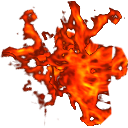
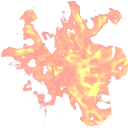
amélioration particules lance flammes

diff --git a/src/engine/texture.cpp b/src/engine/texture.cpp
@@ -175,12 +175,12 @@ static inline void reorienttexture(uchar * RESTRICT src, int sw, int sh, int str
 }
 
 static void reorienttexture(uchar * RESTRICT src, int sw, int sh, int bpp, int stride, uchar * RESTRICT dst, bool flipx, bool flipy, bool swapxy)
-{   
+{
     switch(bpp)
     {
         case 1: return reorienttexture<1>(src, sw, sh, stride, dst, flipx, flipy, swapxy);
         case 2: return reorienttexture<2>(src, sw, sh, stride, dst, flipx, flipy, swapxy);
-        case 3: return reorienttexture<3>(src, sw, sh, stride, dst, flipx, flipy, swapxy); 
+        case 3: return reorienttexture<3>(src, sw, sh, stride, dst, flipx, flipy, swapxy);
         case 4: return reorienttexture<4>(src, sw, sh, stride, dst, flipx, flipy, swapxy);
     }
 }
@@ -658,7 +658,7 @@ void texblend(ImageData &d, ImageData &s, ImageData &m)
             dst[0] = uchar((dst[0]*dstblend + src[0]*srcblend)/255);
             dst[1] = uchar((dst[1]*dstblend + src[1]*srcblend)/255);
             dst[2] = uchar((dst[2]*dstblend + src[2]*srcblend)/255);
-        ); 
+        );
     }
     else
     {
@@ -672,13 +672,13 @@ void texblend(ImageData &d, ImageData &s, ImageData &m)
             int dstblend = 255 - srcblend;
             dst[0] = uchar((dst[0]*dstblend + src[0]*srcblend)/255);
         );
-        else read2writetex(d, s, src, m, mask, 
+        else read2writetex(d, s, src, m, mask,
             int srcblend = mask[0];
             int dstblend = 255 - srcblend;
             dst[0] = uchar((dst[0]*dstblend + src[0]*srcblend)/255);
             dst[1] = uchar((dst[1]*dstblend + src[1]*srcblend)/255);
             dst[2] = uchar((dst[2]*dstblend + src[2]*srcblend)/255);
-        ); 
+        );
     }
 }
 
@@ -1527,7 +1527,7 @@ SDL_Surface *loadsurface(const char *name)
         if(rw)
         {
             const char *ext = strrchr(name, '.');
-            if(ext) ++ext; 
+            if(ext) ++ext;
             s = IMG_LoadTyped_RW(rw, 0, ext);
             SDL_FreeRW(rw);
         }
@@ -2246,13 +2246,13 @@ bool unpackvslot(ucharbuf &buf, VSlot &dst, bool delta)
             }
             default:
                 return false;
-        } 
+        }
         dst.changed |= 1<<changed;
     }
     if(buf.overread()) return false;
-    return true; 
+    return true;
 }
- 
+
 VSlot *findvslot(Slot &slot, const VSlot &src, const VSlot &delta)
 {
     for(VSlot *dst = slot.variants; dst; dst = dst->next)
@@ -2359,7 +2359,7 @@ void texture(char *type, char *name, int *rot, int *xoffset, int *yoffset, float
     {
         tnum = TEX_DIFFUSE;
         defslot = &materialslots[matslot];
-        defslot->reset(); 
+        defslot->reset();
     }
     else if(!defslot) return;
     else if(tnum < 0) tnum = TEX_UNKNOWN;

diff --git a/src/game/weapon.cpp b/src/game/weapon.cpp
@@ -1242,11 +1242,11 @@ namespace game
                     irays.sub(d->muzzle);
                     irays.normalize().mul(1550.0f);
 
-                    switch(rnd(6))
+                    switch(rnd(5))
                     {
-                        case 0: particle_flying_flare(d->muzzle, irays, 700, PART_FLAME1+rnd(2), d->steromillis ? 0xAA0000 :  0x883322, 1.5f, 100, 1, player1->champimillis ? true : false); flamehit(from, rays[i]); break;
-                        case 1: particle_flying_flare(d->muzzle, irays, 700, PART_FLAME1+rnd(2), d->steromillis ? 0x990000 :  0x992211, 1.5f, 100, 1, player1->champimillis ? true : false); flamehit(from, rays[i]); break;
-                        case 2: particle_flying_flare(d->muzzle, irays, 700, PART_FLAME1+rnd(2), d->steromillis ? 0xBB0000 :  0x773300, 1.5f, 100, 1, player1->champimillis ? true : false); flamehit(from, rays[i]); break;
+                        case 0: particle_flying_flare(d->muzzle, irays, 700, PART_FLAME1+rnd(2), d->steromillis ? 0x881111 :  0x604930, (7.f+rnd(16))/10.f, 100, 1, player1->champimillis ? true : false); flamehit(from, rays[i]); break;
+                        case 1: particle_flying_flare(d->muzzle, irays, 700, PART_FLAME1+rnd(2), d->steromillis ? 0x770000 :  0x474747, (7.f+rnd(16))/10.f, 100, 1, player1->champimillis ? true : false); flamehit(from, rays[i]); break;
+                        case 2: particle_flying_flare(d->muzzle, irays, 700, PART_FLAME1+rnd(2), d->steromillis ? 0x991111 :  0x383838, (7.f+rnd(16))/10.f, 100, 1, player1->champimillis ? true : false); flamehit(from, rays[i]); break;
                         default:
                             particle_flying_flare(d->muzzle, irays, 1100, PART_SMOKE, 0x111111, 5.0f, -20, 1, player1->champimillis ? true : false);
                             adddynlight(hudgunorigin(gun, d->o, irays, d), 50, vec(0.40f, 0.2f, 0.1f), 100, 100, L_NODYNSHADOW, 10, vec(0.50f, 0, 0), d);

diff --git a/src/engine/renderparticles.cpp b/src/engine/renderparticles.cpp
@@ -5,7 +5,7 @@
 Shader *particleshader = NULL, *particlenotextureshader = NULL, *particlesoftshader = NULL, *particletextshader = NULL;
 
 VARP(particlelayers, 0, 1, 1);
-FVARP(particlebright, 0, 2, 100);
+FVARP(particlebright, 0, 1.75, 100);
 VARP(particlesize, 20, 100, 500);
 
 VARP(softparticles, 0, 1, 1);
@@ -869,11 +869,11 @@ static partrenderer *parts[] =
     new trailrenderer("media/particle/impact.png", PT_TRAIL|PT_BRIGHT),                          // streak
     new quadrenderer("media/particle/spock_front.png", PT_PART|PT_FEW|PT_BRIGHT),
     new quadrenderer("media/particle/sante.png", PT_PART|PT_BRIGHT),
-    new quadrenderer("media/particle/flames_1.png", PT_PART|PT_FLIP|PT_BRIGHT),
-    new quadrenderer("media/particle/flames_2.png", PT_PART|PT_FLIP|PT_BRIGHT),
+    new quadrenderer("media/particle/flames_1.png", PT_PART|PT_FLIP|PT_BRIGHT|PT_COLLIDE, -1),
+    new quadrenderer("media/particle/flames_2.png", PT_PART|PT_FLIP|PT_BRIGHT|PT_COLLIDE, -1),
     new quadrenderer("media/particle/eau.png", PT_PART|PT_FLIP|PT_BRIGHT),
     new quadrenderer("media/particle/neige.png", PT_PART|PT_FLIP|PT_RND4|PT_COLLIDE, -1),            // colliding snow
-    new trailrenderer("media/particle/pluie.png", PT_TRAIL|PT_LERP|PT_COLLIDE),
+    new trailrenderer("media/particle/pluie.png", PT_TRAIL|PT_LERP|PT_COLLIDE, -1),
     new trailrenderer("media/particle/nuage_1.png", PT_TRAIL),
     new trailrenderer("media/particle/nuage_2.png", PT_TRAIL),
     new trailrenderer("media/particle/nuage_3.png", PT_TRAIL),

diff --git a/src/engine/renderlights.cpp b/src/engine/renderlights.cpp
@@ -941,7 +941,7 @@ void resolvemsaacolor(int w = vieww, int h = viewh)
 }
 
 FVAR(bloomthreshold, 1e-3f, 0.8f, 1e3f);
-FVARP(bloomscale, 0, 1.f, 1e3f);
+FVARP(bloomscale, 0, 1.3f, 1e3f);
 VARP(bloomblur, 0, 7, 7);
 VARP(bloomiter, 0, 2, 4);
 VARFP(bloomsize, 6, 8, 11, cleanupbloom());
